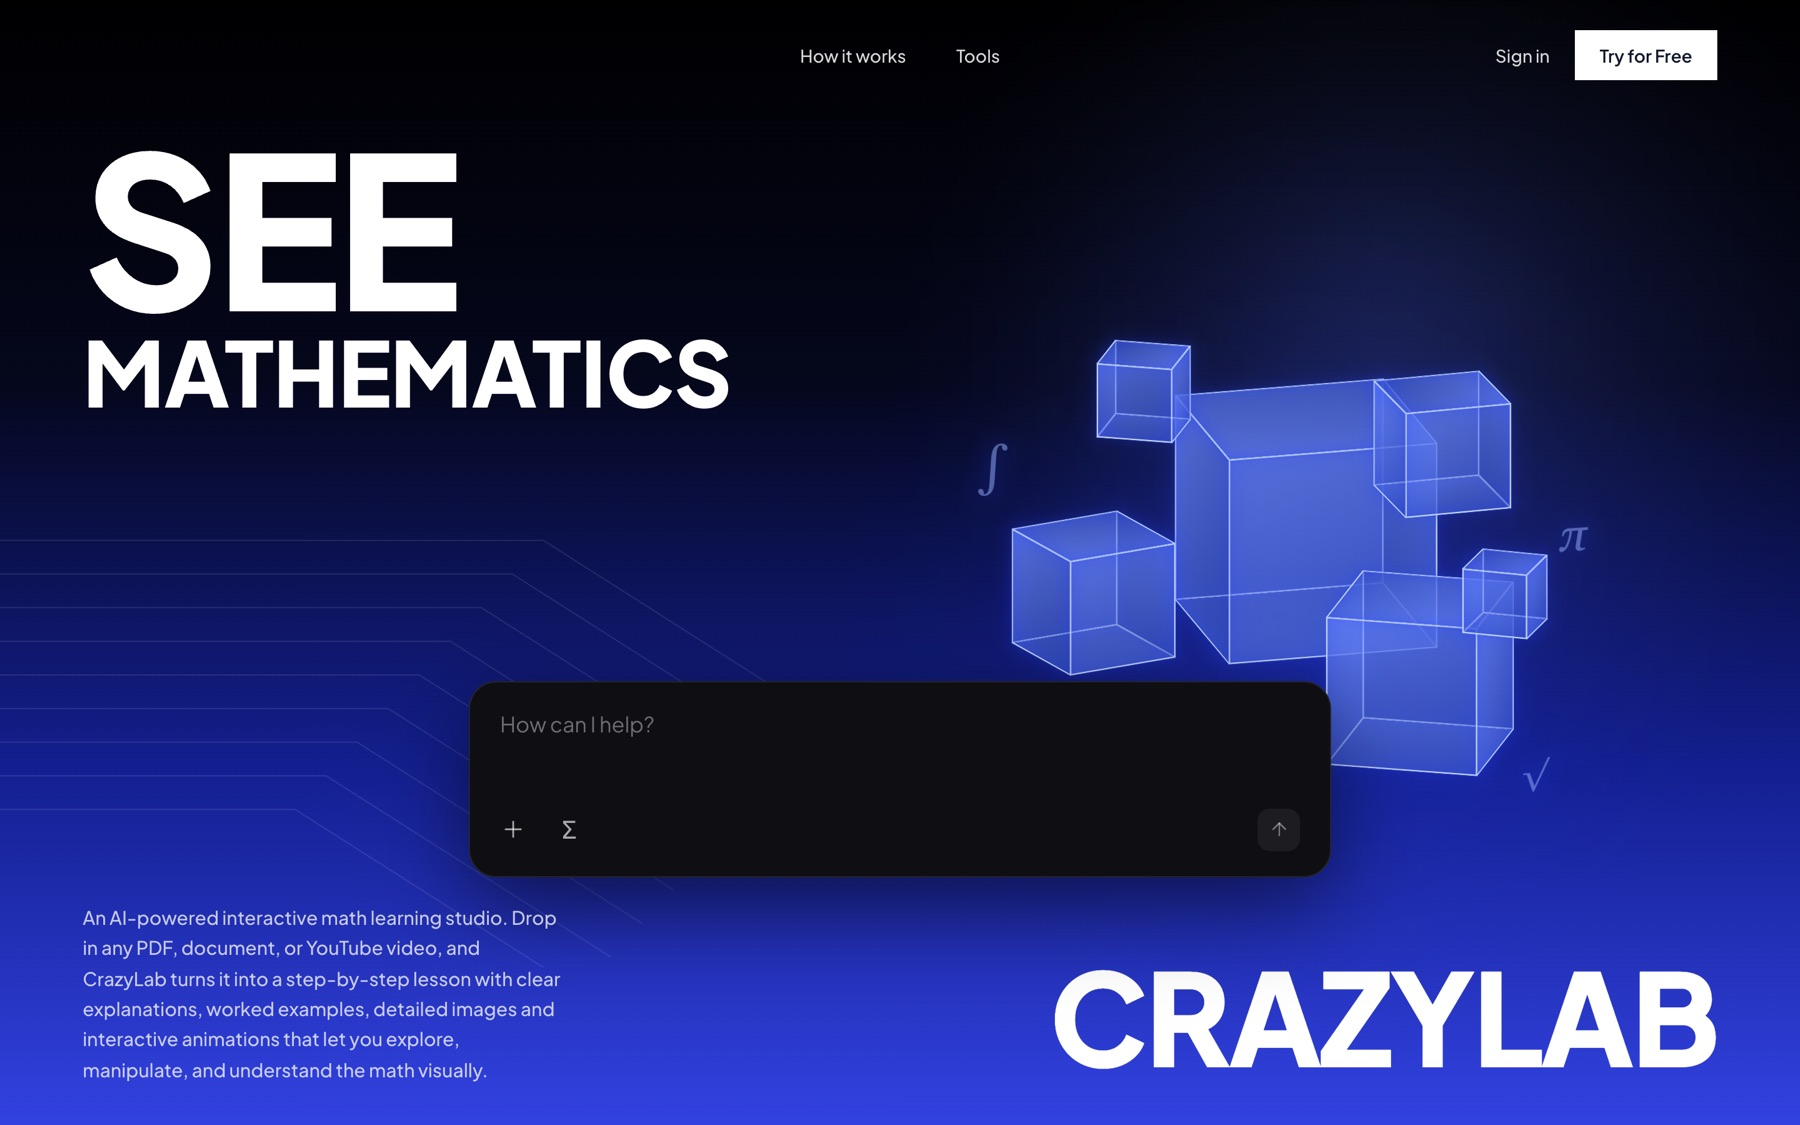
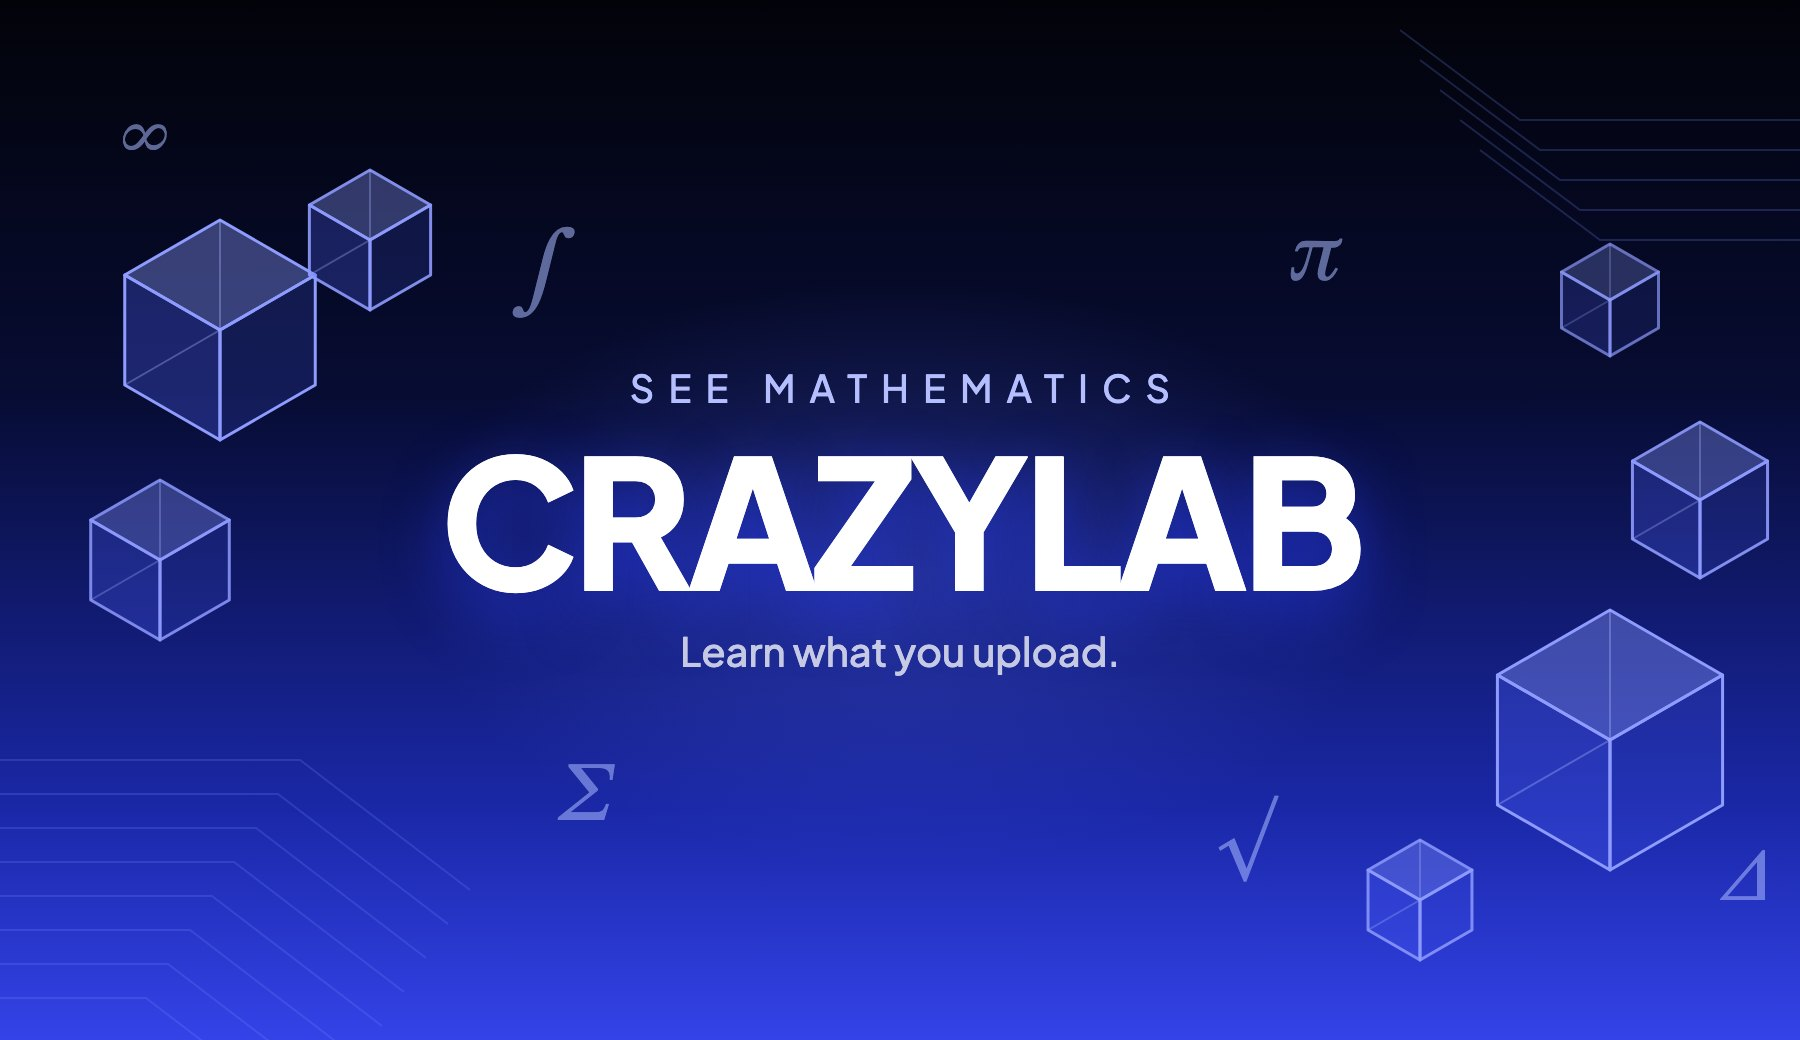
Games first, add Food Radar, title covers for every project
- Games section now comes before Apps (nav, skip link and hero button follow)
- Add Food Radar to Apps
- Replace website screenshots with designed title covers for
  Cook & Run, CrazyLab and Bubble Arena

diff --git a/index.html b/index.html
@@ -4,7 +4,7 @@
   <meta charset="utf-8">
   <meta name="viewport" content="width=device-width, initial-scale=1">
   <title>Osmos Studio — independent projects</title>
-  <meta name="description" content="Osmos Studio builds independent apps and games: CrazyLab, PlayVault.gg and Bubble Arena.">
+  <meta name="description" content="Osmos Studio builds independent apps and games: CrazyLab, Food Radar, PlayVault.gg, Bubble Arena and Cook &amp; Run.">
   <meta name="theme-color" content="#000000">
   <link rel="icon" href="/favicon.png" type="image/png">
 
@@ -30,15 +30,15 @@
   <script type="module" src="/hero.js"></script>
 </head>
 <body>
-  <a class="skip" href="#apps">Skip to projects</a>
+  <a class="skip" href="#games">Skip to projects</a>
 
   <header class="site-header">
     <a class="logo" href="/" aria-label="Osmos Studio home">
       <img class="logo-mark" src="/assets/osmos-mark.png" alt="" width="820" height="820">
     </a>
     <nav class="nav" aria-label="Main">
-      <a href="#apps">Apps</a>
       <a href="#games">Games</a>
+      <a href="#apps">Apps</a>
       <a href="#developers">Developers</a>
       <a href="#contact" class="nav-cta">Contact</a>
     </nav>
@@ -57,8 +57,8 @@
         </div>
 
         <div class="hero-foot reveal">
-          <p class="hero-sub">Three live projects. More in the oven.</p>
-          <a class="scroll-cue" href="#apps" aria-label="Scroll to projects">
+          <p class="hero-sub">Five live projects. More in the oven.</p>
+          <a class="scroll-cue" href="#games" aria-label="Scroll to projects">
             <span>See the work</span>
             <svg viewBox="0 0 24 24" aria-hidden="true"><path d="M12 4v16m0 0-6-6m6 6 6-6"/></svg>
           </a>
@@ -71,32 +71,6 @@
       Width: "project--wide" = full row, "span-5" / "span-7" = partial row (12-column grid).
       Accent: set style="--accent: #hex" for the art panel color.
     -->
-
-    <!-- APPS -->
-    <section class="work" id="apps">
-      <div class="section-head reveal">
-        <h2>Apps</h2>
-        <p>Click a card to open the live app.</p>
-      </div>
-
-      <div class="projects">
-        <!-- CrazyLab -->
-        <a class="project project--wide reveal" href="https://crazylab.io" target="_blank" rel="noopener" style="--accent: #ff77cd">
-          <div class="project-art" aria-hidden="true">
-            <img class="shot" src="/assets/previews/crazylab.jpg" alt="" width="1800" height="1125" loading="lazy" decoding="async">
-          </div>
-          <div class="project-meta">
-            <div>
-              <h3>CrazyLab</h3>
-              <p>Learn what you upload. Turn your own files into study material.</p>
-              <ul class="tags"><li>Learning</li><li>AI</li></ul>
-            </div>
-            <span class="go" aria-hidden="true"><svg viewBox="0 0 24 24"><path d="M7 17 17 7M8 7h9v9"/></svg></span>
-          </div>
-          <span class="sr-only">(opens crazylab.io in a new tab)</span>
-        </a>
-      </div>
-    </section>
 
     <!-- GAMES -->
     <section class="work" id="games">
@@ -125,7 +99,7 @@
         <!-- Bubble Arena / Splatter -->
         <a class="project span-7 reveal" href="https://splatter.onrender.com" target="_blank" rel="noopener" style="--accent: #ff5f04">
           <div class="project-art" aria-hidden="true">
-            <img class="shot" src="/assets/previews/bubble-arena.jpg" alt="" width="1800" height="1125" loading="lazy" decoding="async">
+            <img class="shot" src="/assets/previews/bubble-arena.jpg" alt="" style="--shot-pos: center" width="1800" height="1040" loading="lazy" decoding="async">
           </div>
           <div class="project-meta">
             <div>
@@ -136,6 +110,64 @@
             <span class="go" aria-hidden="true"><svg viewBox="0 0 24 24"><path d="M7 17 17 7M8 7h9v9"/></svg></span>
           </div>
           <span class="sr-only">(opens splatter.onrender.com in a new tab)</span>
+        </a>
+
+        <!-- Cook & Run -->
+        <a class="project project--wide reveal" href="https://cook-run.onrender.com" target="_blank" rel="noopener" style="--accent: #e0a92e">
+          <div class="project-art" aria-hidden="true">
+            <img class="shot" src="/assets/previews/cook-run.jpg" alt="" style="--shot-pos: center" width="2400" height="960" loading="lazy" decoding="async">
+          </div>
+          <div class="project-meta">
+            <div>
+              <h3>Cook &amp; Run</h3>
+              <p>A two-player co-op road chase. One drives the RV, one runs the mobile lab in the back. Nobody gets busted.</p>
+              <ul class="tags"><li>Co-op</li><li>Browser game</li></ul>
+            </div>
+            <span class="go" aria-hidden="true"><svg viewBox="0 0 24 24"><path d="M7 17 17 7M8 7h9v9"/></svg></span>
+          </div>
+          <span class="sr-only">(opens cook-run.onrender.com in a new tab)</span>
+        </a>
+      </div>
+    </section>
+
+    <!-- APPS -->
+    <section class="work" id="apps">
+      <div class="section-head reveal">
+        <h2>Apps</h2>
+        <p>Click a card to open the live app.</p>
+      </div>
+
+      <div class="projects">
+        <!-- CrazyLab -->
+        <a class="project span-7 reveal" href="https://crazylab.io" target="_blank" rel="noopener" style="--accent: #ff77cd">
+          <div class="project-art" aria-hidden="true">
+            <img class="shot" src="/assets/previews/crazylab.jpg" alt="" style="--shot-pos: center" width="1800" height="1040" loading="lazy" decoding="async">
+          </div>
+          <div class="project-meta">
+            <div>
+              <h3>CrazyLab</h3>
+              <p>Learn what you upload. Turn your own files into study material.</p>
+              <ul class="tags"><li>Learning</li><li>AI</li></ul>
+            </div>
+            <span class="go" aria-hidden="true"><svg viewBox="0 0 24 24"><path d="M7 17 17 7M8 7h9v9"/></svg></span>
+          </div>
+          <span class="sr-only">(opens crazylab.io in a new tab)</span>
+        </a>
+
+        <!-- Food Radar -->
+        <a class="project span-5 reveal" href="https://go-eat-1.onrender.com" target="_blank" rel="noopener" style="--accent: #3ddc84">
+          <div class="project-art" aria-hidden="true">
+            <img class="shot" src="/assets/previews/food-radar.jpg" alt="" style="--shot-pos: center" width="1800" height="1440" loading="lazy" decoding="async">
+          </div>
+          <div class="project-meta">
+            <div>
+              <h3>Food Radar</h3>
+              <p>Find the best-rated restaurants in any part of Moscow. Every place gets a fair score out of 10 that weighs its rating against its review count.</p>
+              <ul class="tags"><li>Maps</li><li>Food</li></ul>
+            </div>
+            <span class="go" aria-hidden="true"><svg viewBox="0 0 24 24"><path d="M7 17 17 7M8 7h9v9"/></svg></span>
+          </div>
+          <span class="sr-only">(opens Food Radar in a new tab)</span>
         </a>
       </div>
     </section>
